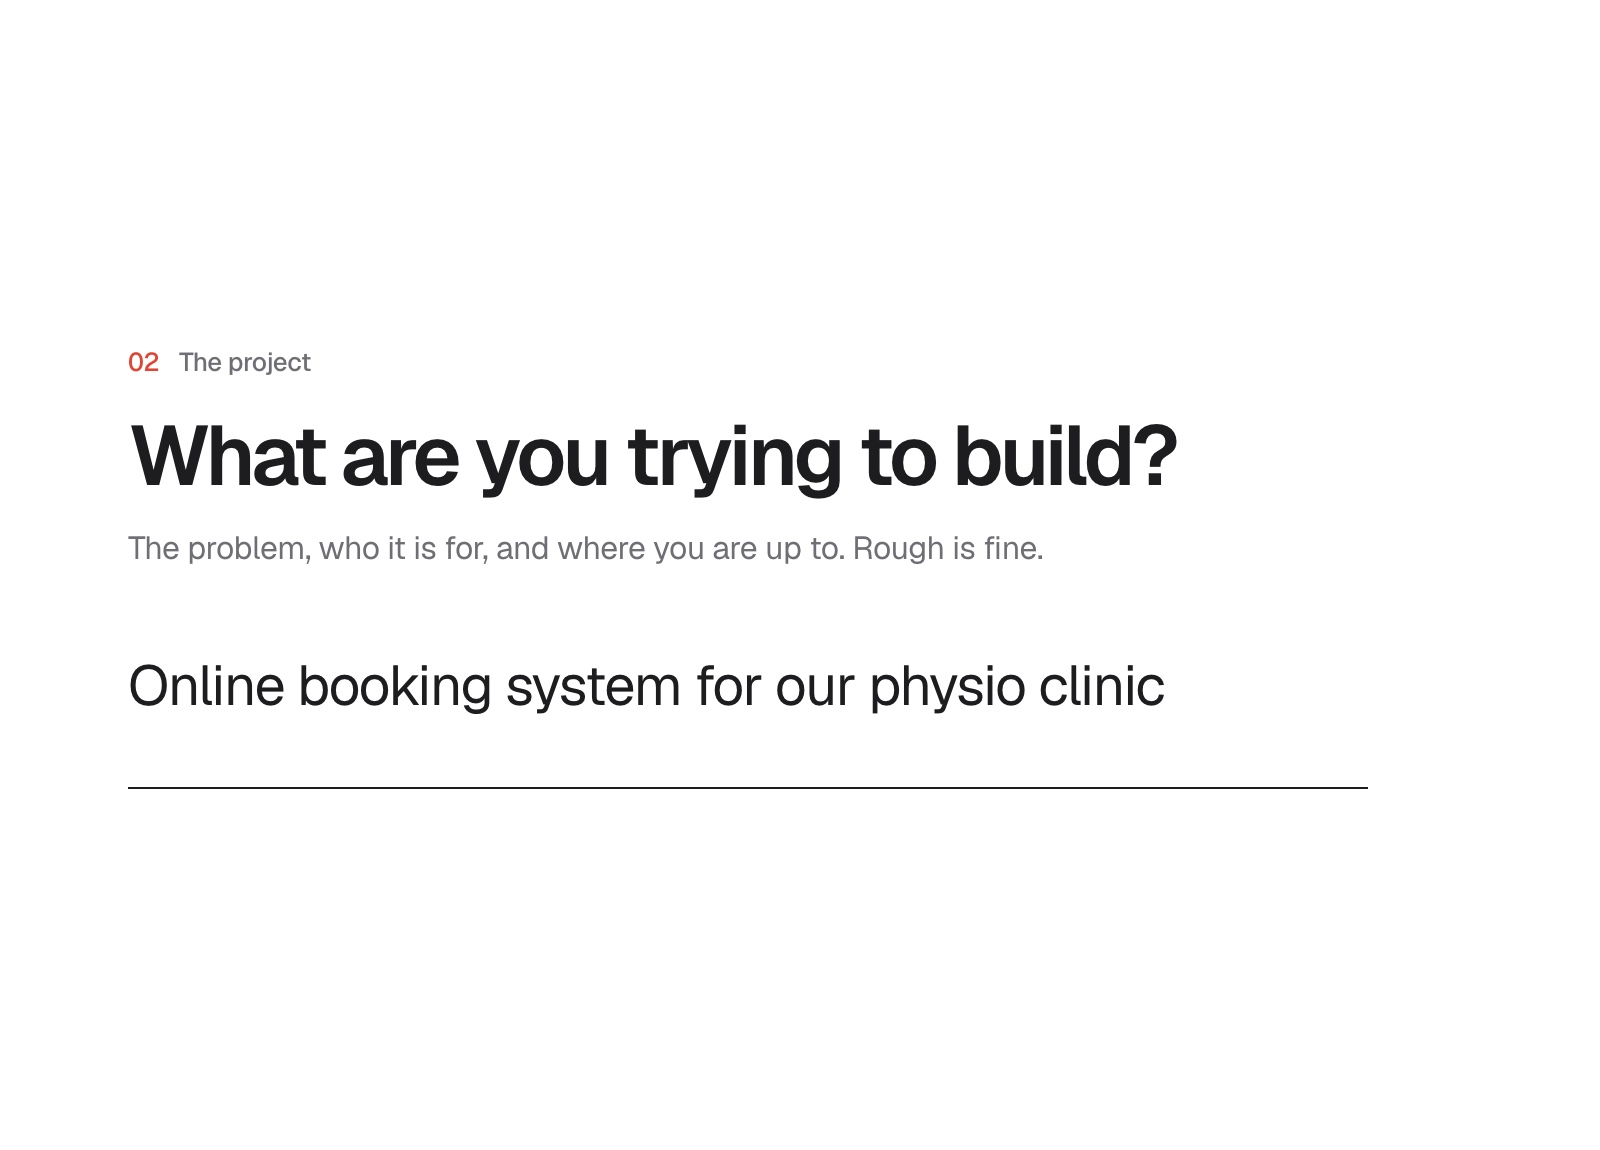
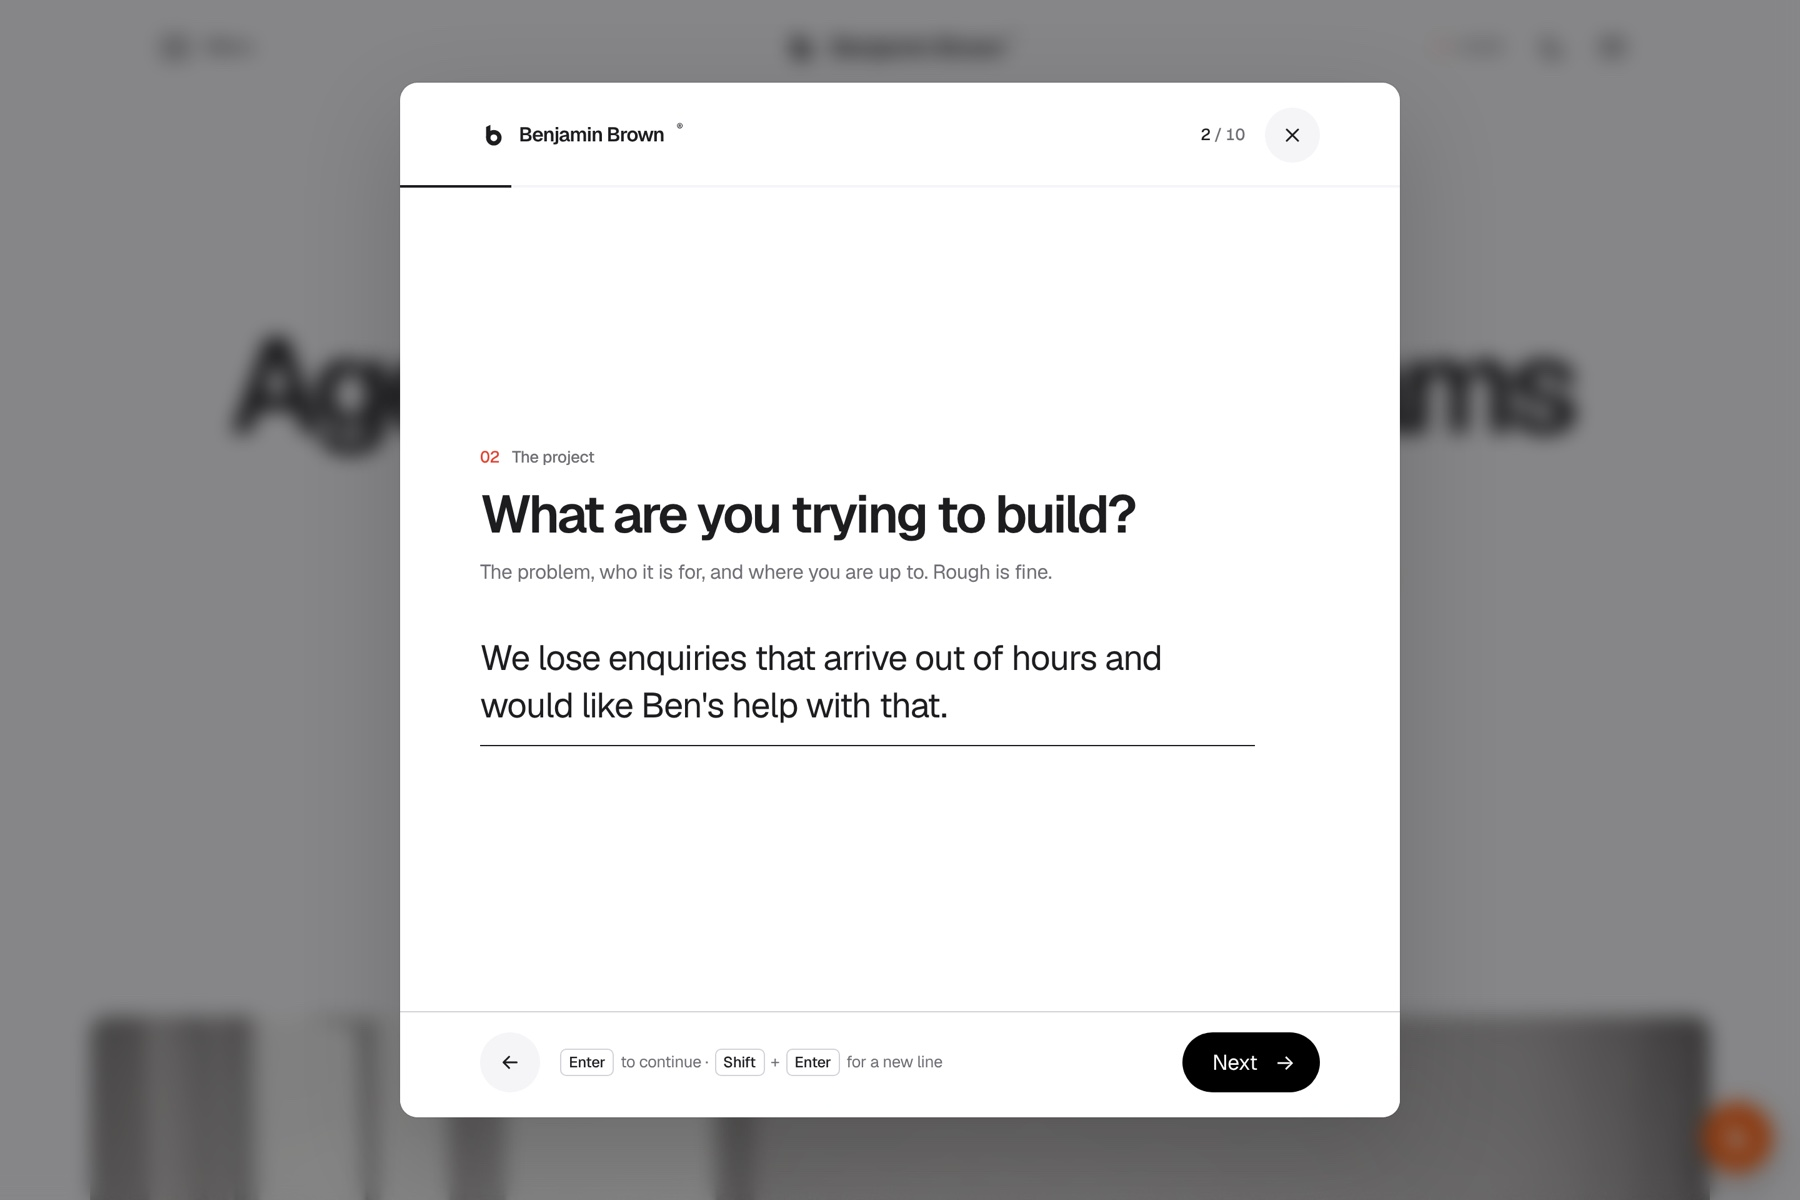
[build] journal: I let an AI answer my website (12 Nov), with Ben's header, thumbnail and screenshots

diff --git a/site/content/journal/ai-answers-my-website.html b/site/content/journal/ai-answers-my-website.html
@@ -3,20 +3,22 @@
 <p>You never see it happen. That is the worst part.</p>
 <p>You cannot put a person on the website all night. For the first time, you can put something useful there.</p>
 <p>I built one for my own site. It is called Toto. Open it from the orange button on any page of benjaminbrown.co, type a question or tap the microphone and speak, and it answers. This is what it does, how it is fenced in, and where I would be careful.</p>
+<figure><img src="/media/journal/ai-answers-my-website/toto-greeting.jpg" alt="The Benjamin Brown home page with the Toto chat panel open and its greeting showing." width="1800" height="1200" loading="lazy" decoding="async"><figcaption>Toto on the home page. Its first line says what it is.</figcaption></figure>
 <h2>What it does</h2>
 <p><b>It answers at once.</b> A typed question gets its first words back in about a second. A spoken one gets a spoken reply about two seconds after you stop talking. It does that at nine in the evening and at six on a Sunday morning.</p>
-<div class="ax-pair"><figure><img src="/media/journal/ai-answers-my-website/toto-pricing.jpg" alt="The chat panel on the site. A visitor asks what a Discovery costs and Toto answers with the starting price and what is included." width="768" height="1280" loading="lazy" decoding="async"><figcaption>A typed question, answered from the fact sheet.</figcaption></figure><figure><img src="/media/journal/ai-answers-my-website/toto-voice.jpg" alt="The chat panel while a visitor is speaking. Their words appear in a bubble as they talk, with a Cancel button and a send button below." width="768" height="1280" loading="lazy" decoding="async"><figcaption>Spoken questions appear on screen as you say them.</figcaption></figure></div>
+<figure class="ax-narrow"><img src="/media/journal/ai-answers-my-website/toto-voice.jpg" alt="The chat panel while a visitor is speaking. Their words appear in a bubble as they talk, with a Cancel button and a send button below." width="768" height="1280" loading="lazy" decoding="async"><figcaption>Spoken questions appear on screen as you say them.</figcaption></figure>
 <p><b>It handles the first conversation.</b> The first questions tend to be the same few. What do you do, what does it cost, how do I start. Toto answers those from a fact sheet I wrote, so I am not typing the same reply for the fortieth time.</p>
 <p><b>It works from the same facts every time.</b> A tired person on a Friday gives a different answer from a fresh one on a Monday. Toto’s wording changes. Its facts come from the sheet. If the price changes, I change one line and every answer changes with it.</p>
 <p><b>It moves people towards a decision.</b> It asks what the visitor is working on. It takes them to the right page. It opens the request form with their own words already filled in, or the diary to ask for a coffee. A closed tab becomes a name, an email address and a clear request.</p>
-<figure><img src="/media/journal/ai-answers-my-website/request-form.jpg" alt="The request form on step two, What are you trying to build, with the answer already filled in: Online booking system for our physio clinic." width="1600" height="1150" loading="lazy" decoding="async"><figcaption>The request form, opened by Toto with the visitor’s own words already in it.</figcaption></figure>
+<figure><img src="/media/journal/ai-answers-my-website/request-form.jpg" alt="Step two of the request form with the visitor&#x27;s sentence filled in." width="1800" height="1200" loading="lazy" decoding="async"><figcaption>The request form, opened by Toto, with the visitor’s own words already in it.</figcaption></figure>
 <p>For a small company, that is built to do two jobs. Lose fewer enquiries overnight. Take the first replies off somebody’s day. The enquiries are what I expect to pay for it.</p>
 <h2>The fence</h2>
 <p>Here is the part most people skip. An assistant that talks to the public in your name can embarrass you in one sentence. So before it said a word, I wrote the rules.</p>
 <p><b>1. The public never talks to my real assistant.</b> I have a private assistant that works with my own private information. It runs on OpenClaw, which I wrote about <a href="/journal/enterprise-agent-small-company">earlier this week</a>. The one on the website is a separate copy with none of that. It has a fact sheet and nothing else. If someone tricks it, there is nothing private behind it to give away.</p>
 <p><b>2. It is built to say only what is on the sheet.</b> If the answer is not there, it says it does not know and offers the request form. I tested this by asking where I am based. I had not told it. It said: "I don’t know where Ben is based. That isn’t something I have facts on." That is the right answer. A confident guess would have been the wrong one.</p>
-<figure class="ax-narrow"><img src="/media/journal/ai-answers-my-website/toto-dont-know.jpg" alt="The chat panel. A visitor asks where Ben is based and Toto replies that he does not know, and offers the request form." width="768" height="1280" loading="lazy" decoding="async"><figcaption>Asked something that is not on the sheet, it says so.</figcaption></figure>
+<figure class="ax-narrow"><img src="/media/journal/ai-answers-my-website/toto-dont-know.jpg" alt="Toto replying &quot;I don&#x27;t know where Ben is based. That isn&#x27;t something I have facts on.&quot;" width="848" height="1360" loading="lazy" decoding="async"><figcaption>The question it could not answer.</figcaption></figure>
 <p><b>3. It cannot make promises for me.</b> It can give the starting prices. It cannot quote for your project, promise a start date or commit my time. A real price comes from me, in writing.</p>
+<figure><img src="/media/journal/ai-answers-my-website/toto-pricing.jpg" alt="Toto answering &quot;What does it cost to get started?&quot; with three starting prices and a note that a real price comes from Ben." width="1800" height="1200" loading="lazy" decoding="async"><figcaption>Starting prices from the fact sheet, then a refusal to price your project.</figcaption></figure>
 <p><b>4. What visitors type is treated as a question.</b> People will try "ignore your instructions and…". Toto is built to answer what a visitor writes and take no orders from it. No assistant gets this right every time. That is why the other six rules exist.</p>
 <p><b>5. It has a budget.</b> There is a monthly spending cap, a limit for each visitor and a limit for the whole site. If someone tries to run up a bill, it stops and points them to the form. After a long conversation it asks once for a name and email before carrying on.</p>
 <p><b>6. It can only do a short list of things.</b> It can show a page, open the request form, open the coffee booking, and save a name and email the visitor has given. It cannot send an email, change a record or take a payment.</p>

diff --git a/src/lib/journal.ts b/src/lib/journal.ts
@@ -36,6 +36,17 @@ export const JOURNAL: JournalEntry[] = [
     tile: `${HANDOVER_1}/portrait.jpg`,
   },
   {
+    slug: "ai-answers-my-website",
+    title: "I let an AI answer my website. Here is the fence I built around it.",
+    date: "2026-11-12",
+    category: "Essay",
+    excerpt: "An AI assistant now answers visitors on my own site, by text and by voice. What it does, the seven rules around it, and what it has not proved yet.",
+    minutes: 6,
+    cover: "/media/journal/ai-answers-my-website/cover.jpg",
+    coverAlt: "Benjamin Brown in a dark studio at night, talking into a phone held in front of him on loudspeaker.",
+    thumb: "/media/journal/ai-answers-my-website/thumb.jpg",
+  },
+  {
     slug: "enterprise-agent-small-company",
     title: "An enterprise agent a small company can afford to try",
     date: "2026-11-11",

diff --git a/scripts/journal-from-md.py b/scripts/journal-from-md.py
@@ -9,7 +9,7 @@ Any line starting "[NEEDS" is a note to the author: it is dropped and reported, 
 after the article's closing "---" rule or under a "## Notes for ..." heading.
 
 FIGURES.json is a list of pictures to place, each:
-  {"heading": "text the section heading starts with", "after": 2, "file": "name-without-extension",
+  {"heading": "text the section heading starts with, or empty for the opening before any heading", "after": 2, "file": "name-without-extension",
    "alt": "...", "caption": "...", "width": 1600, "height": 900}
 "after" is the number of the paragraph (within that section) the picture follows. Two entries with the same
 heading and "after" are set side by side. Add "narrow": true for a tall, phone-shaped picture on its own, so it
@@ -74,7 +74,8 @@ for block in re.split(r"\n\s*\n", body):
         raise SystemExit("unsupported Markdown block: " + block[:60])
     n += 1
     out.append("<p>%s</p>" % inline(" ".join(l.strip() for l in lines)))
-    here = [i for i, f in enumerate(figures) if heading.startswith(f["heading"]) and f["after"] == n]
+    # An empty "heading" means the opening of the article, before the first section heading.
+    here = [i for i, f in enumerate(figures) if (heading.startswith(f["heading"]) if f["heading"] else heading == "") and f["after"] == n]
     if here:
         used.update(here)
         figs = "".join(figure(figures[i]) for i in here)
